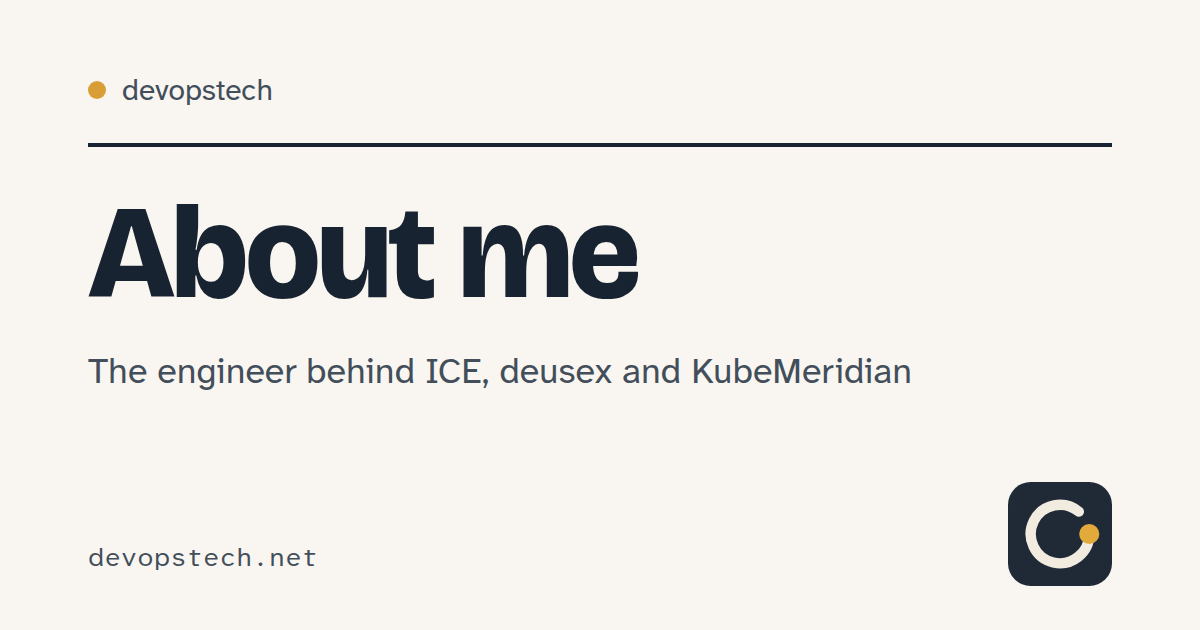
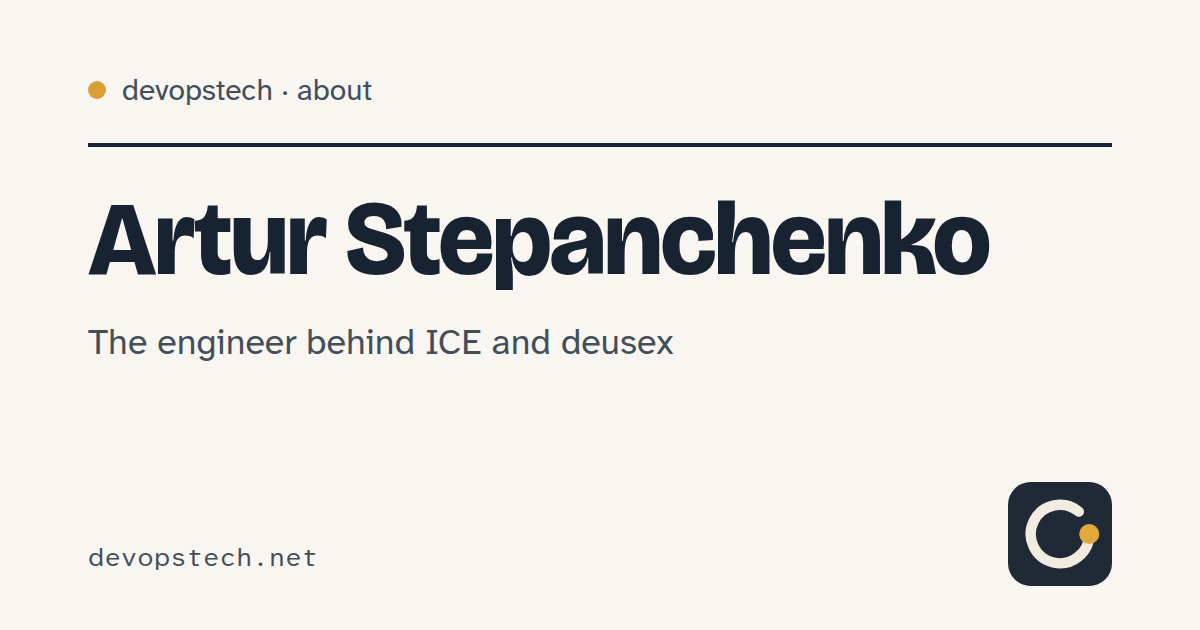
docs(site): About with a name, LinkedIn and a track record; IndexNow key
- About: Artur Stepanchenko, role, LinkedIn / GitHub / RSS, four
  verifiable facts from the CV (no employer names), what I'm building.
- LinkedIn in the navbar social links; posts' JSON-LD author is the named
  Person with LinkedIn and GitHub as sameAs.
- About social card re-rendered with the name.
- IndexNow key file at the site root for Bing / Yandex submission.

Changed region(s): [[0.0617, 0.3016, 0.8325, 0.4825], [0.0617, 0.5127, 0.7708, 0.6333], [0.2467, 0.1206, 0.3083, 0.181]]

diff --git a/docs/.vitepress/theme/custom.css b/docs/.vitepress/theme/custom.css
@@ -305,3 +305,31 @@
 
 /* long outline entries wrap instead of being cut off */
 .VPDocAsideOutline .outline-link { white-space: normal !important; overflow: visible !important; text-overflow: clip !important; line-height: 1.4; padding: 4px 0; }
+
+/* ---------- About: who is behind the site ---------- */
+.vp-doc .dt-person {
+  display: flex;
+  align-items: center;
+  gap: 20px;
+  margin: 8px 0 28px;
+  padding: 18px 0;
+  border-top: 2px solid var(--vp-c-text-1);
+  border-bottom: 1px solid var(--vp-c-divider);
+}
+.vp-doc .dt-person img {
+  width: 96px;
+  height: 96px;
+  border-radius: 50%;
+  object-fit: cover;
+  flex: none;
+}
+.vp-doc .dt-person p { margin: 0; }
+.vp-doc .dt-person-name {
+  font-family: var(--dt-font-display);
+  font-size: 24px;
+  font-weight: 800;
+  letter-spacing: -0.01em;
+}
+.vp-doc .dt-person-role { margin-top: 4px !important; font-size: 16px; color: var(--vp-c-text-2); }
+.vp-doc .dt-person-links { display: flex; flex-wrap: wrap; gap: 0 20px; margin-top: 6px !important; }
+.vp-doc .dt-person-links a { display: inline-flex; align-items: center; min-height: 44px; font-weight: 600; }

diff --git a/docs/.vitepress/site-meta.ts b/docs/.vitepress/site-meta.ts
@@ -40,8 +40,13 @@ function ogImage(relativePath: string): string {
 }
 
 const PUBLISHER = { '@type': 'Organization', name: SITE_TITLE, url: `${SITE}/`, logo: `${SITE}/devopstech.svg` };
-// The posts are first-person writing by one engineer, published under the devopstech name.
-const AUTHOR = { '@type': 'Person', name: SITE_TITLE, url: `${SITE}/about`, sameAs: 'https://github.com/blackcheshire13' };
+// The posts are first-person writing by the engineer behind devopstech.
+const AUTHOR = {
+  '@type': 'Person',
+  name: 'Artur Stepanchenko',
+  url: `${SITE}/about`,
+  sameAs: ['https://www.linkedin.com/in/black-cmd-devops', 'https://github.com/blackcheshire13'],
+};
 
 // What a product page is about. ICE and deusex are not released, so they are described as the
 // subject of a WebPage rather than as SoftwareApplication (which expects offers / ratings).

diff --git a/docs/about.md b/docs/about.md
@@ -1,34 +1,48 @@
 ---
-title: About me
-description: The engineer behind devopstech — ICE, deusex and KubeMeridian. DevOps, platform engineering, security and the tools that keep production calm.
+title: About — Artur Stepanchenko
+description: Artur Stepanchenko, the DevOps and platform engineer behind devopstech — ICE, active defence for Kubernetes, and deusex, an autonomous development loop.
 ---
 
-# About me
+# About
 
-Hi — I'm the engineer behind **devopstech**.
+<div class="dt-person">
+  <div>
+    <p class="dt-person-name">Artur Stepanchenko</p>
+    <p class="dt-person-role">Senior DevOps / SRE / platform engineer · the engineer behind devopstech</p>
+    <p class="dt-person-links"><a href="https://www.linkedin.com/in/black-cmd-devops">LinkedIn</a><a href="https://github.com/blackcheshire13">GitHub</a><a href="/feed.xml">RSS</a></p>
+  </div>
+</div>
 
-I'm a **DevOps and platform engineer who also writes the tools**. Thirteen-plus years of
-Kubernetes, observability, infrastructure-as-code, secrets and CI/CD taught me one habit:
-when something in production annoys me twice, I build the fix — and, where I can, open-source it.
+I'm a **DevOps and platform engineer who also writes the tools**. I have spent 13+ years
+in IT infrastructure, eight of them in DevOps: Kubernetes on AWS and bare metal, GitOps with
+Argo CD, Terraform, Istio, Vault, and the Prometheus, Grafana, Loki and Tempo stack. One
+habit came out of it: when something in production annoys me twice, I build the fix.
+
+## Track record
+
+- Consolidated 10+ Kubernetes clusters across four clouds into four, under one
+  hub-and-spoke Argo CD control plane — [the write-up](/blog/consolidating-kubernetes-clusters).
+- Scaled a crypto exchange from 2–3k to 15–20k requests per second on EKS and bare-metal
+  Kubernetes, with zero-downtime releases.
+- Ran Kubernetes in air-gapped enterprise environments under strict infosec and compliance
+  rules.
+- Since July 2026, building ICE and deusex.
 
 ## What I'm building
 
-- **[ICE](/ice/)** — active defence for Kubernetes. It finds problems, answers through GitOps
-  and keeps a finding open until the running cluster proves it is fixed. In development;
-  looking for design partners.
+- **[ICE](/ice/)** — active defence for Kubernetes. It turns findings and drift into GitOps
+  pull requests a person approves, and keeps a case open until a fresh measurement proves
+  the fix. In development; looking for [design partners](/ice/design-partners).
 - **[deusex](/deusex/)** — an autonomous development loop that plans, builds, reviews and
   merges code on a schedule and stops only at the decisions people have not handed over.
-  It has been developing ICE since day one.
+  It develops ICE, and itself.
 - **[KubeMeridian](/kubemeridian)** — Kubernetes observability for Grafana. Archived in
   October 2026.
 
-## Open to collaboration
+## Work with me
 
-I'm **open to collaboration**: design-partner pilots for ICE, conversations about
-autonomous development with deusex, contract work on Kubernetes, observability, cost and SLOs,
-or just comparing notes on platform engineering.
+Design-partner pilots for ICE, conversations about autonomous development with deusex,
+contract work on Kubernetes, observability, cost and SLOs — or just comparing notes on
+platform engineering.
 
 <PartnerCta topic="general" variant="plain" />
-
-- **GitHub:** [blackcheshire13](https://github.com/blackcheshire13)
-- **RSS:** [devopstech.net/feed.xml](/feed.xml)
